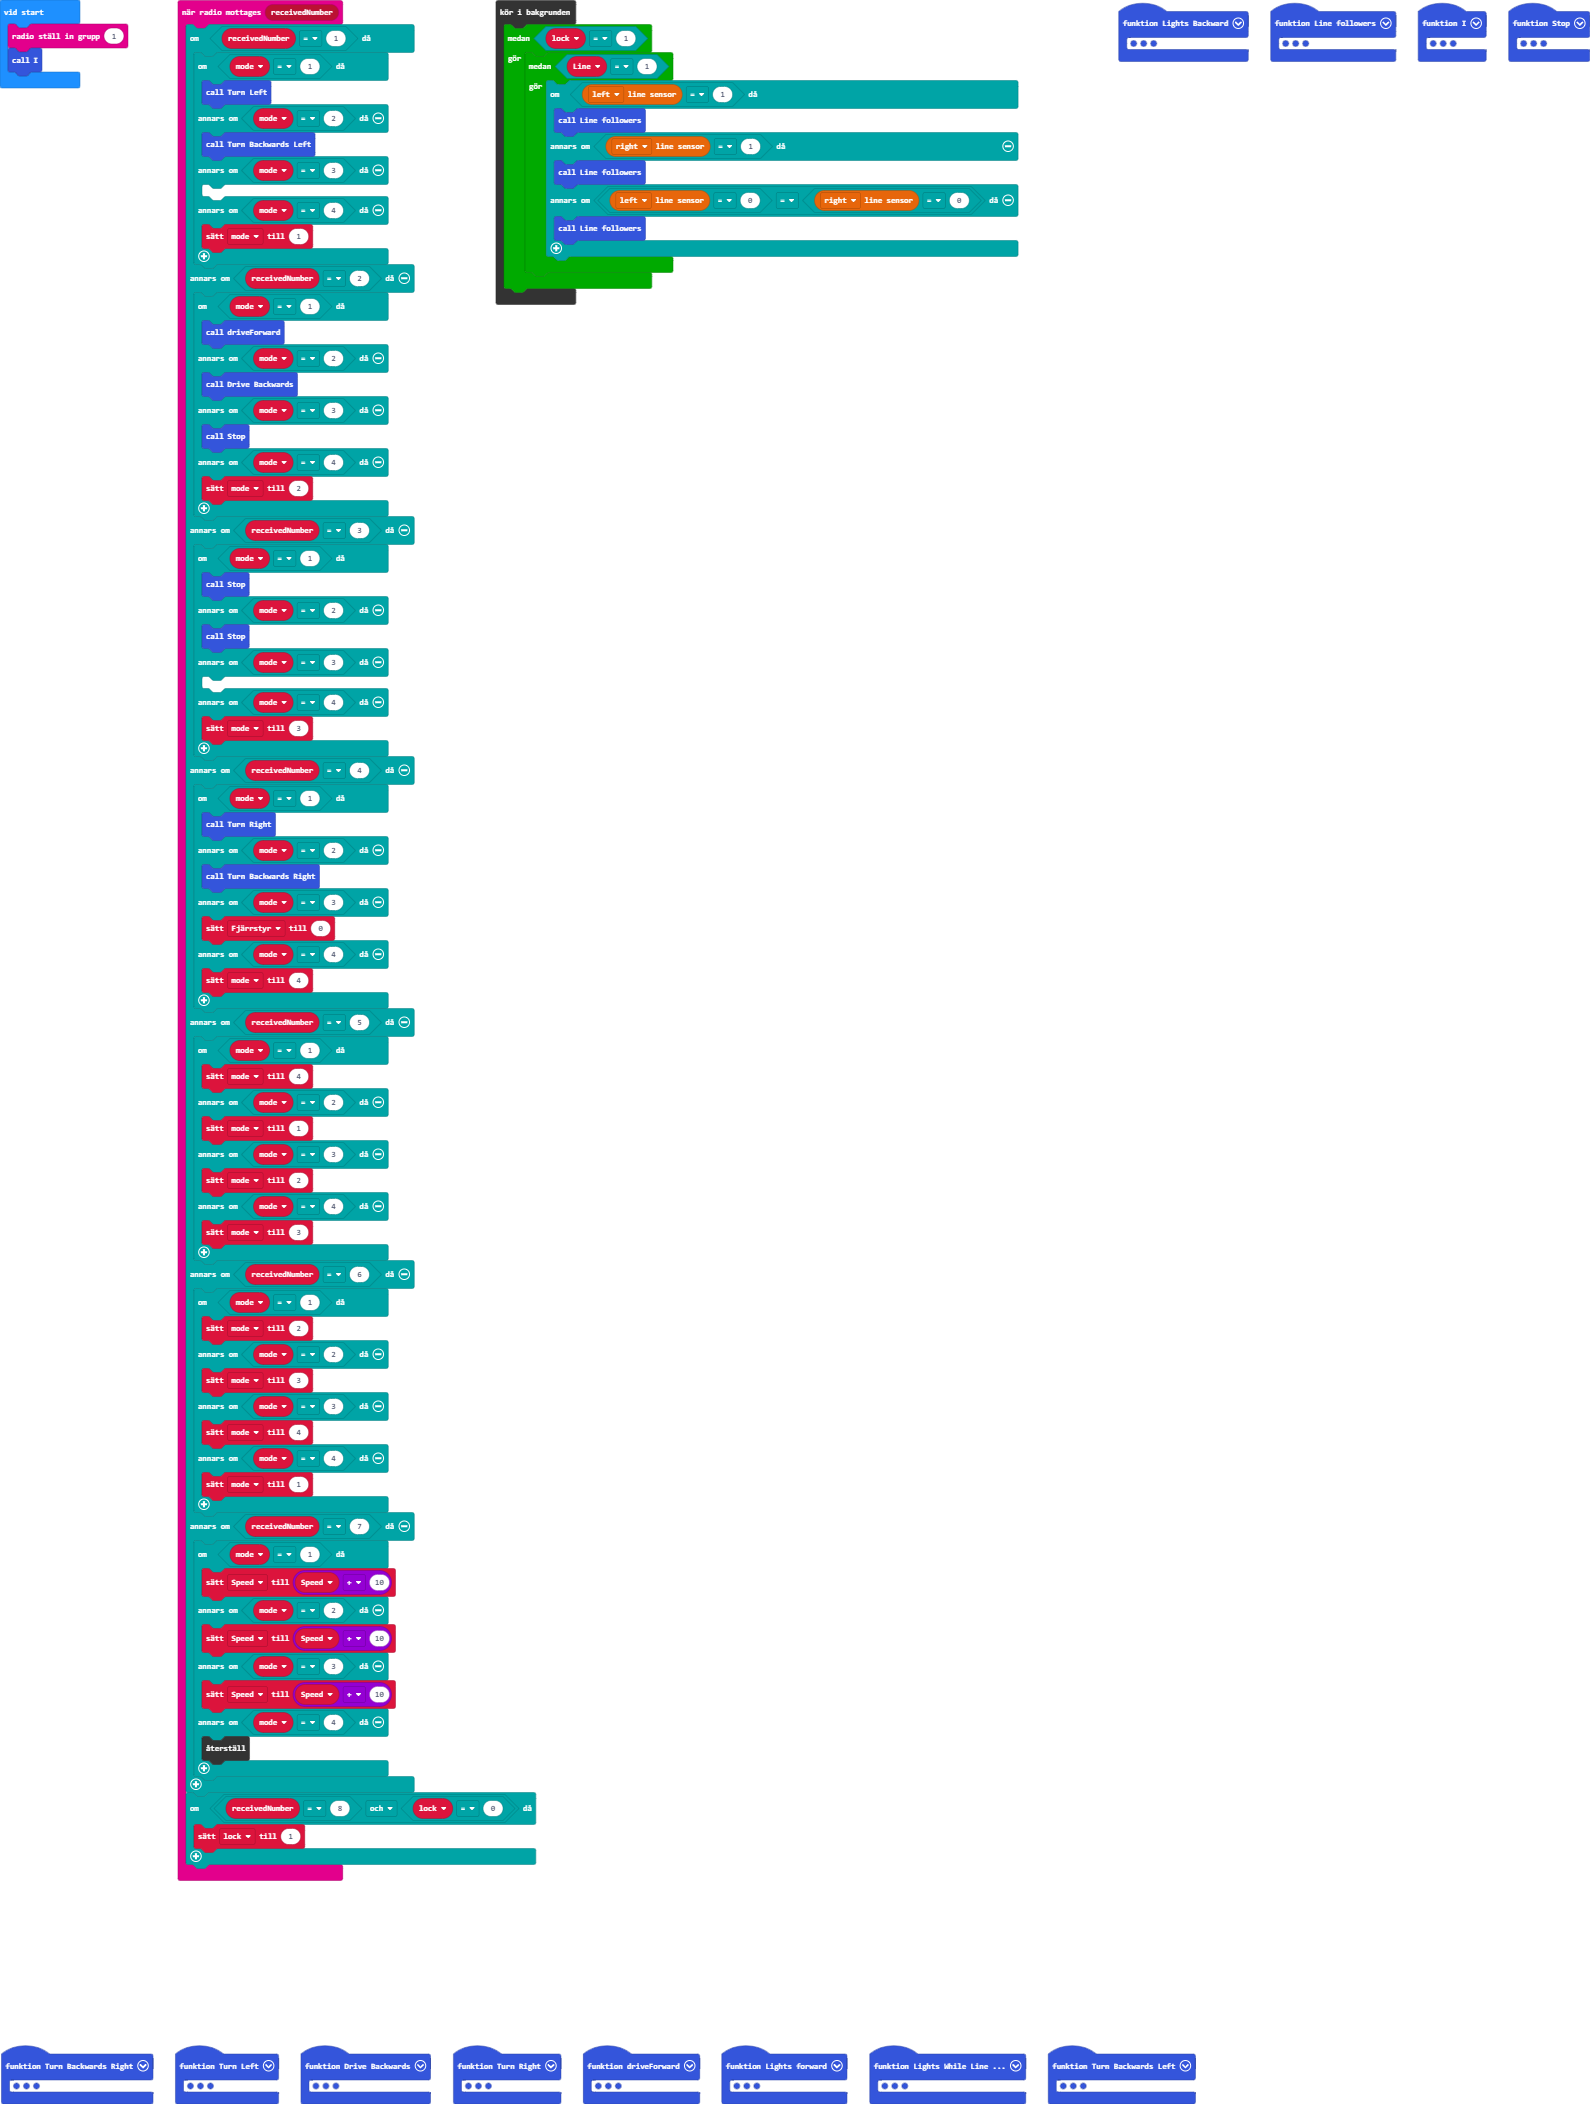
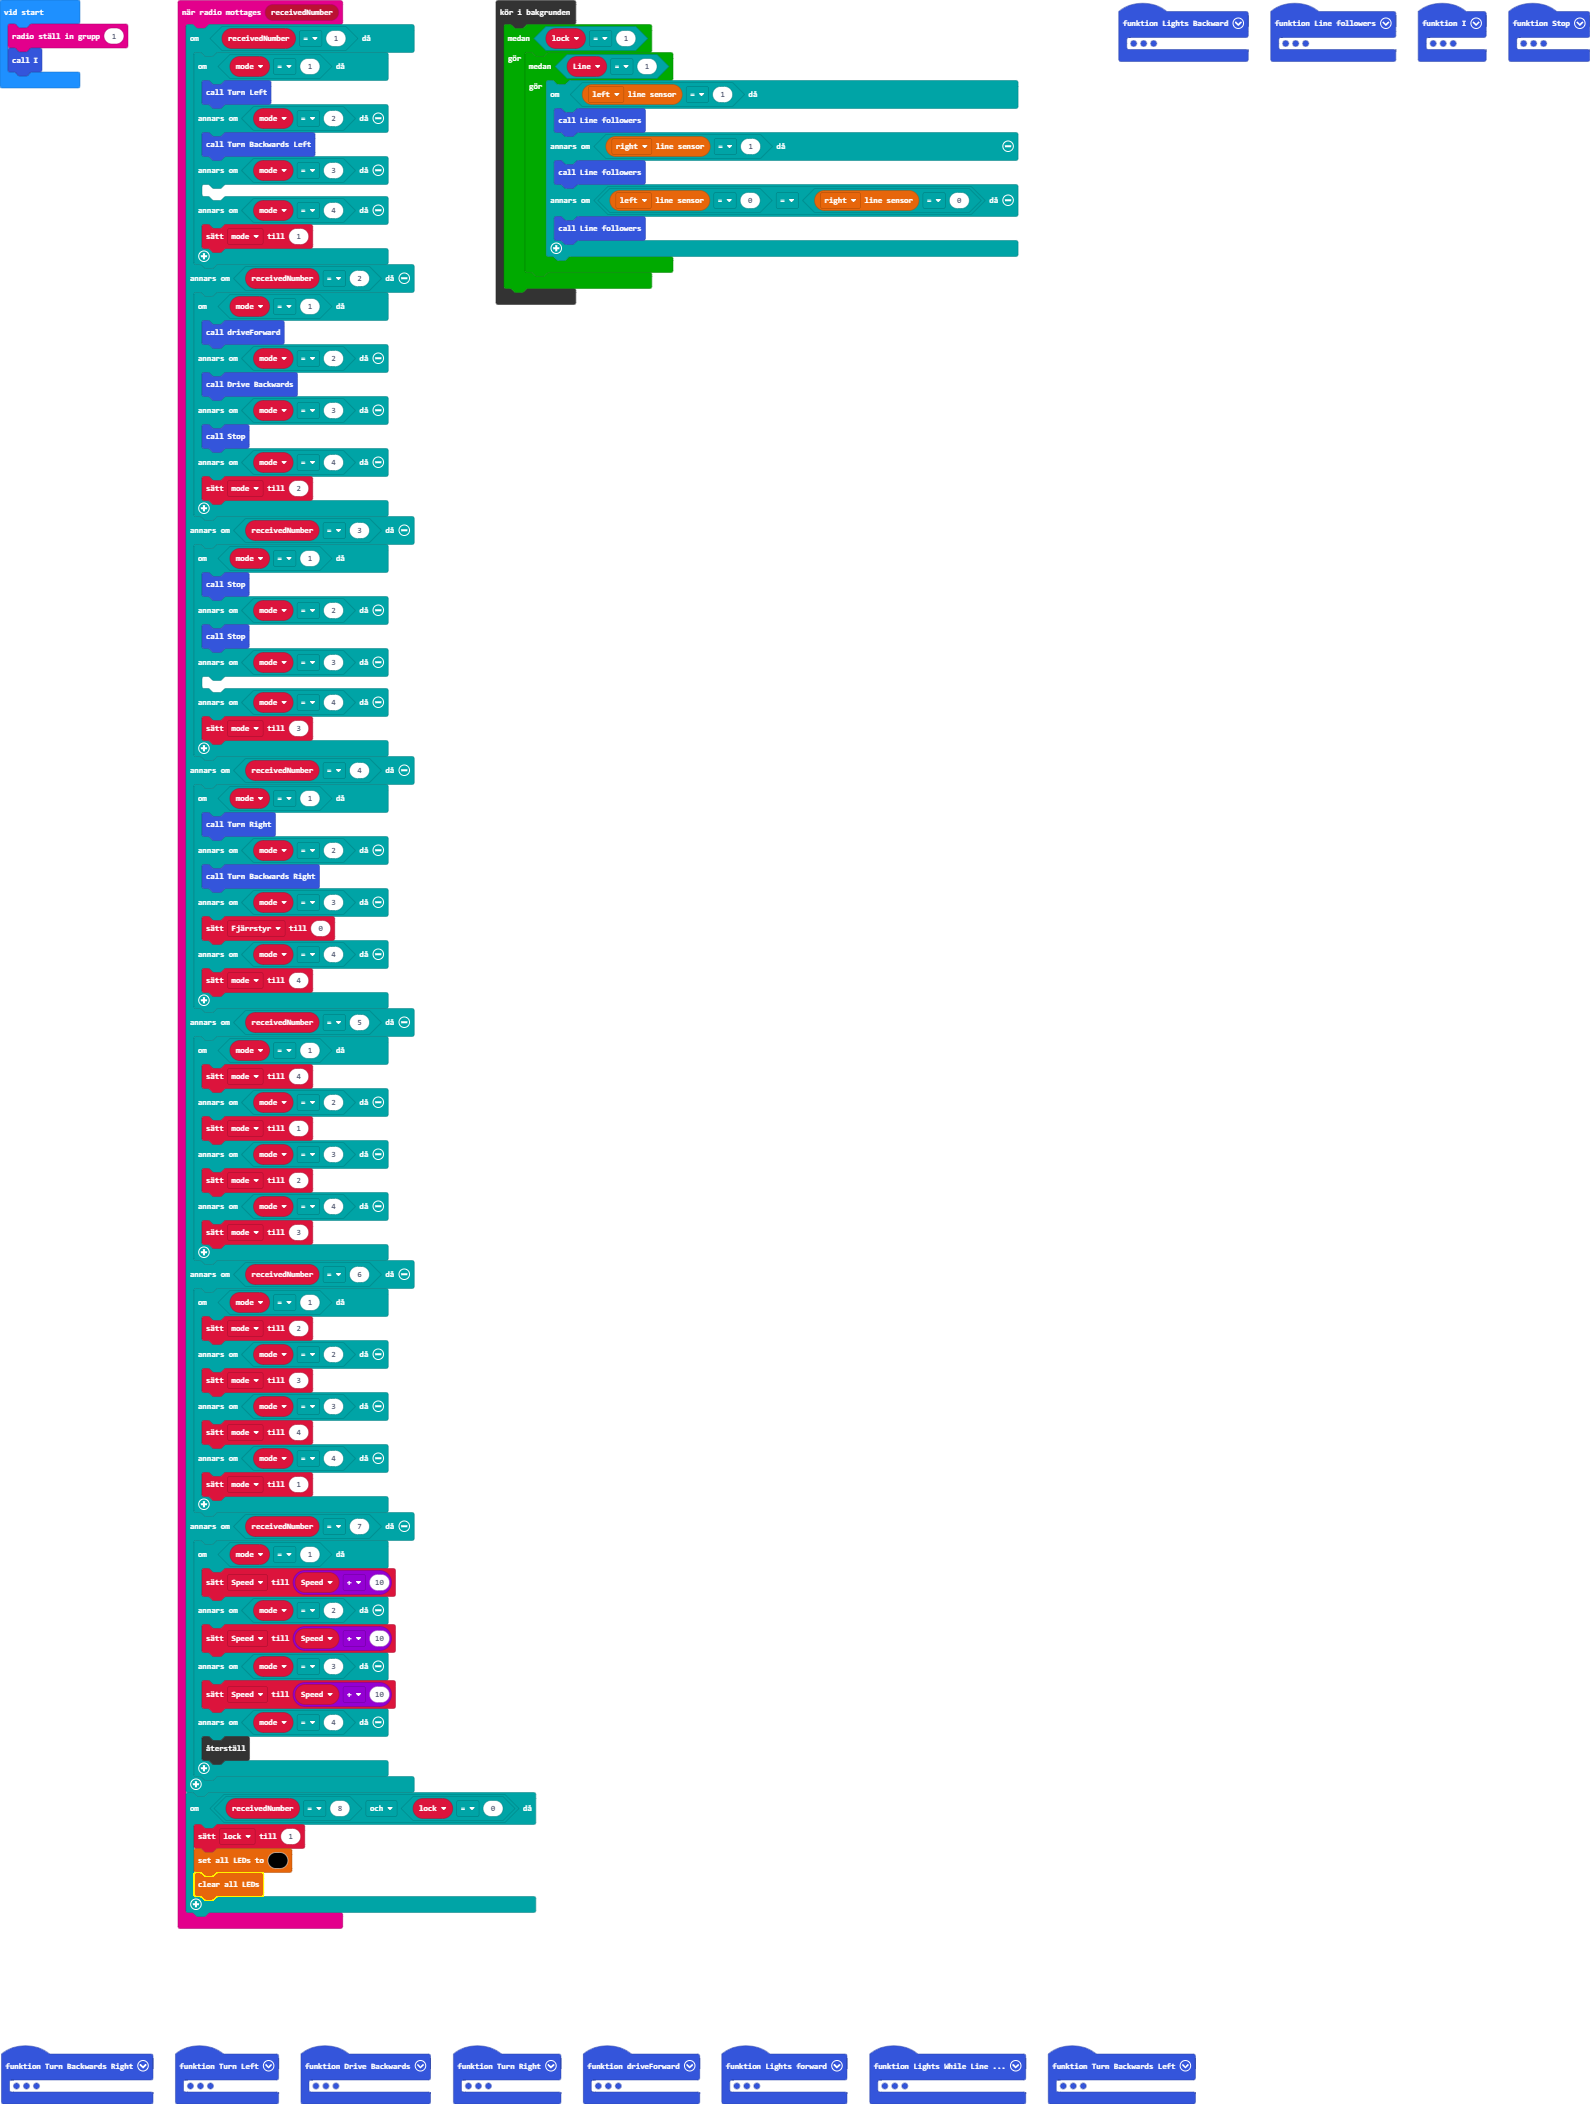
Update main.blocks, main.ts

Changed region(s): [[0.0925, 0.865, 0.339, 0.9268]]

diff --git a/main.ts b/main.ts
@@ -117,6 +117,8 @@ radio.onReceivedNumber(function (receivedNumber) {
     }
     if (receivedNumber == 8 && lock == 0) {
         lock = 1
+        bitbot.setLedColor(0x000000)
+        bitbot.ledClear()
     }
 })
 function Lights_Backward () {
